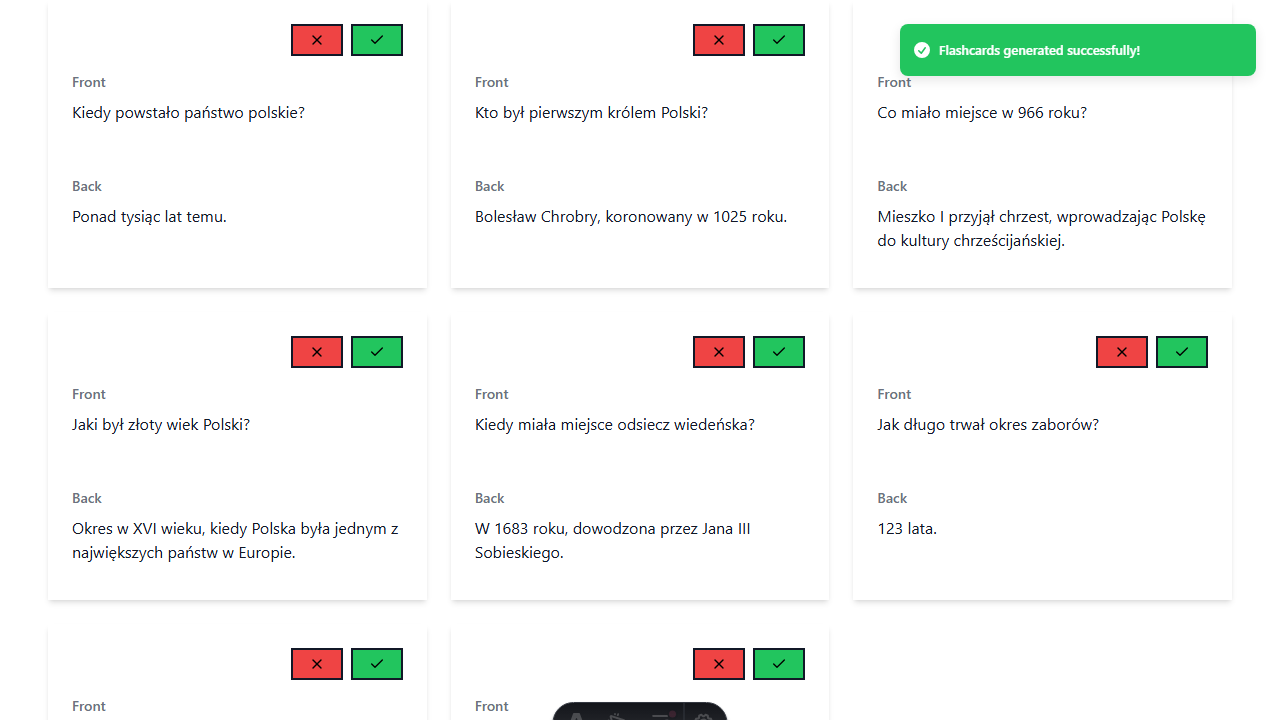
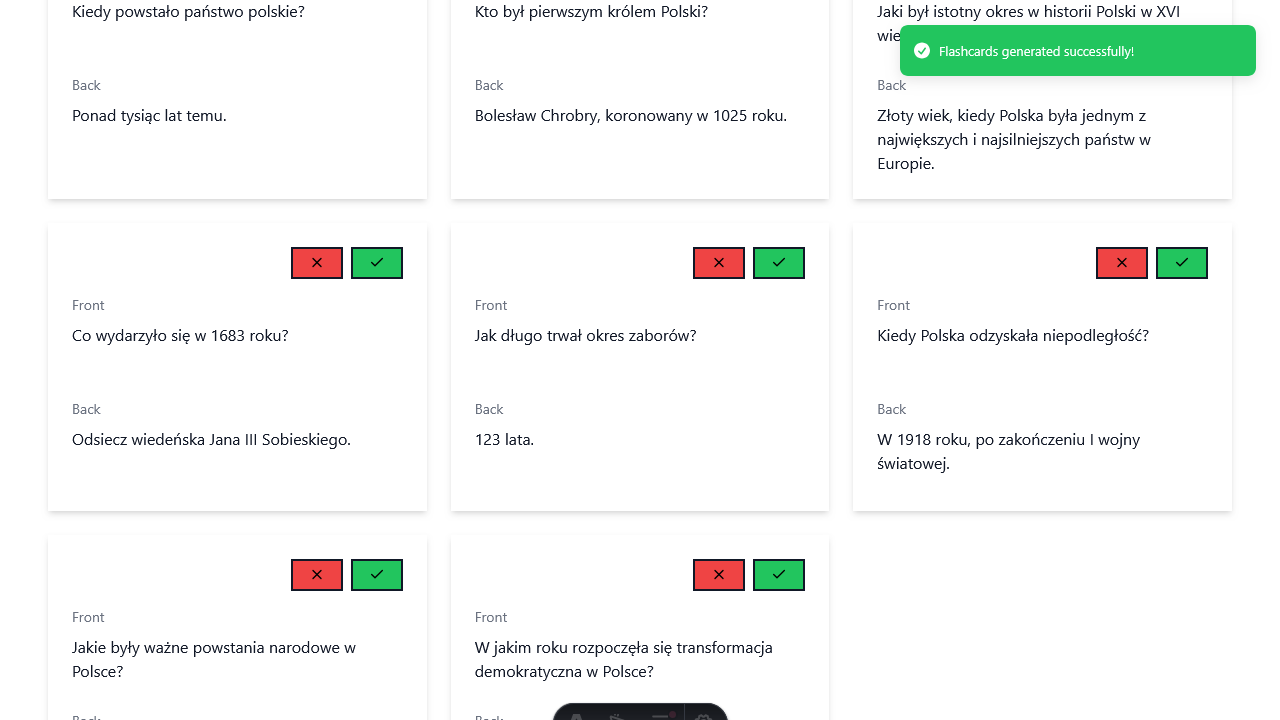
testy ok

diff --git a/playwright-report/index.html b/playwright-report/index.html
@@ -74,4 +74,4 @@ Error generating stack: `+u.message+`
   </body>
 </html>
 <script>
[2 lines of base64/hex data omitted]

diff --git a/vitest.config.ts b/vitest.config.ts
@@ -12,5 +12,13 @@ export default defineConfig({
     alias: {
       "@": resolve(__dirname, "./src"),
     },
+    exclude: [
+      "**/node_modules/**",
+      "**/dist/**",
+      "**/cypress/**",
+      "**/.{idea,git,cache,output,temp}/**",
+      "**/{karma,rollup,webpack,vite,vitest,jest,ava,babel,nyc,cypress,tsup,build}.config.*",
+      "**/e2e/**",
+    ],
   },
 });

diff --git a/src/pages/api/generations.ts b/src/pages/api/generations.ts
@@ -10,7 +10,7 @@ export const prerender = false;
 
 // Initialize OpenRouter service with default configuration
 const openRouterService =
-  import.meta.env.MODE === "test"
+  import.meta.env.MODE === "test" && !import.meta.env.USE_REAL_OPENROUTER
     ? new MockOpenRouterService()
     : new OpenRouterService({
         apiKey: import.meta.env.OPENROUTER_API_KEY || "",

diff --git a/playwright.config.ts b/playwright.config.ts
@@ -10,6 +10,8 @@ const requiredEnvVars = [
   "SUPABASE_TEST_USER_PASSWORD",
   "SUPABASE_URL",
   "SUPABASE_ANON_KEY",
+  "OPENROUTER_API_KEY",
+  "USE_REAL_OPENROUTER",
 ];
 
 for (const envVar of requiredEnvVars) {
